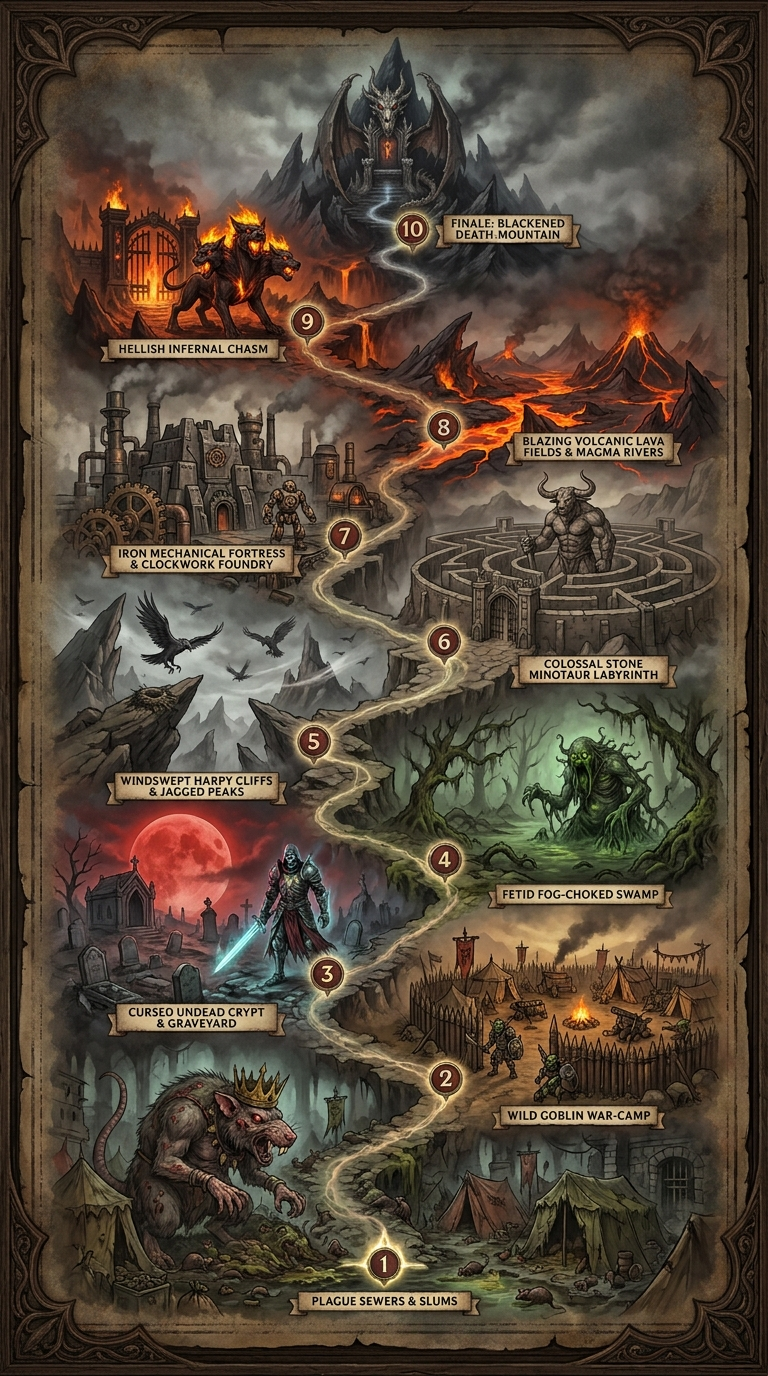
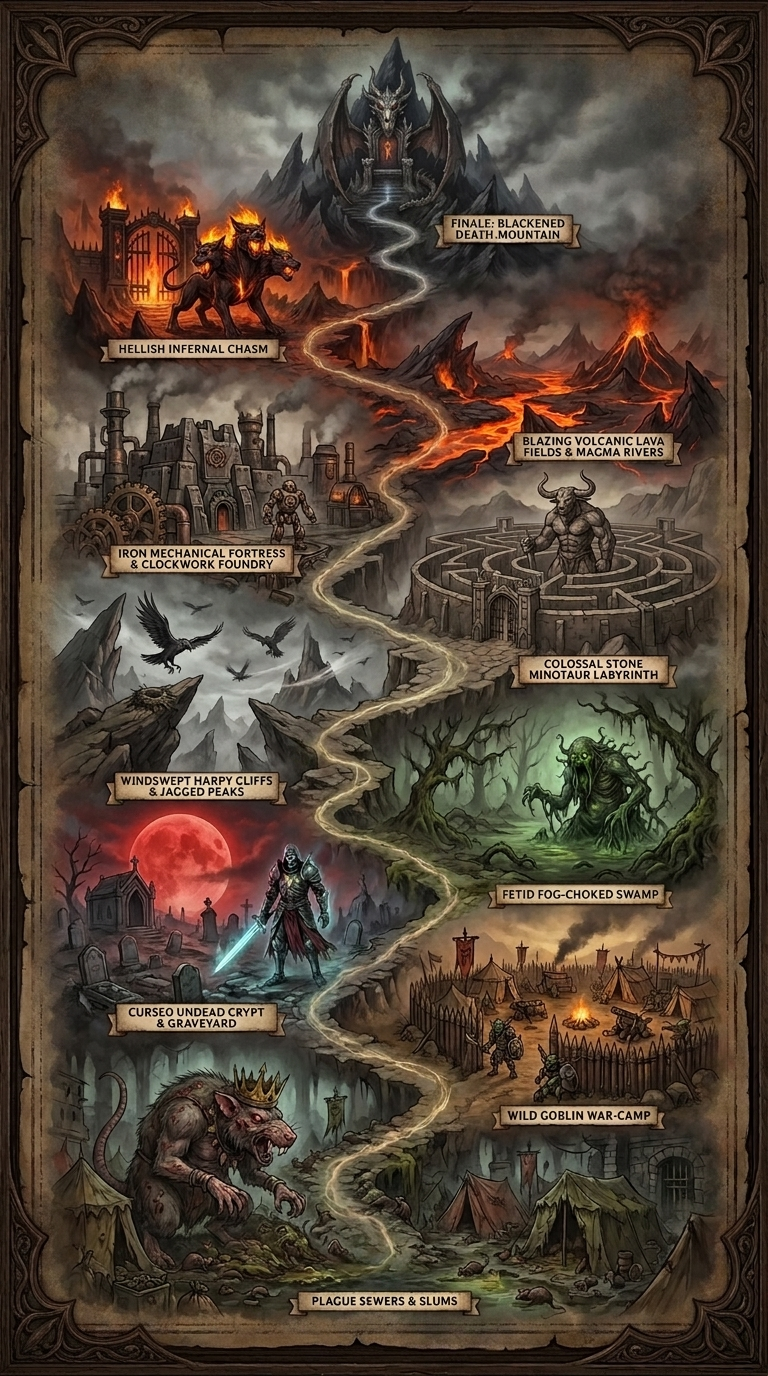
feat(web-game): battle-style workout UI, level timer, victory track, new map
- Экран боя в стиле референса: TIME-таймер слева, карточка монстра по центру, HP-бар X/Y, крестик выхода, крупный золотой круг-счётчик снизу.
- Таймер уровня (время прохождения), останавливается на победе.
- Трек победы games/victory.mp3 играет на экране 'Повержен!', стоп при выходе на карту.
- Заменена картинка карты (без нарисованных цифр — номера рисует оверлей).

diff --git a/web-game/index.html b/web-game/index.html
@@ -43,23 +43,48 @@
       #card-target { font-size: 20px; margin: 12px 0; }
       .hpbar { height: 16px; background: #333; border-radius: 8px; overflow: hidden; margin: 8px 0; }
       .hpbar > i { display: block; height: 100%; background: #d64545; width: 100%; }
-      /* WORKOUT */
+      /* WORKOUT (battle UI в стиле референса) */
       #screen-workout { position: relative; }
       /* Вертикальный (портретный) кадр: ландшафтная вебкамера обрезается по центру. */
       #wk-stage { position: relative; transform: scaleX(-1); width: 100%; aspect-ratio: 3 / 4; overflow: hidden; background: #000; }
       #wk-video, #wk-overlay { width: 100%; height: 100%; object-fit: cover; display: block; }
       #wk-video { background: #000; }
       #wk-overlay { position: absolute; inset: 0; }
-      /* Картинка текущего монстра поверх кадра (НЕ внутри зеркального wk-stage). */
-      #wk-monster-box { position: absolute; top: 8px; right: 8px; z-index: 4; width: 88px; text-align: center; pointer-events: none; }
-      #wk-monster { width: 88px; height: 88px; object-fit: cover; border-radius: 10px; border: 2px solid #F5A623; display: block; background: #000; }
-      #wk-monster-name { font-size: 11px; margin-top: 2px; text-shadow: 0 1px 3px #000; line-height: 1.1; }
       #wk-hud { position: absolute; inset: 0; pointer-events: none; }
-      #wk-counter { position: absolute; top: 8px; left: 0; right: 0; text-align: center;
-        font-size: 64px; font-weight: 900; color: #F5A623; text-shadow: 0 2px 8px #000; }
-      #wk-set { position: absolute; top: 84px; left: 0; right: 0; text-align: center; font-size: 18px; }
+      /* Таймер уровня — слева сверху */
+      #wk-time-box { position: absolute; top: 10px; left: 10px; background: rgba(11,17,31,.85);
+        border: 1px solid #3a4a67; border-radius: 8px; padding: 4px 10px; text-align: center; }
+      #wk-time-box .lbl { font-size: 9px; letter-spacing: 2px; color: #9aa4b2; }
+      #wk-time { font-size: 18px; font-weight: 800; color: #fff; font-variant-numeric: tabular-nums; }
+      /* Крестик выхода — справа сверху */
+      #wk-back { position: absolute; top: 10px; right: 10px; z-index: 6; pointer-events: auto;
+        width: 36px; height: 36px; border-radius: 50%; background: rgba(11,17,31,.85);
+        border: 1px solid #3a4a67; color: #fff; font-size: 18px; line-height: 1; padding: 0; }
+      /* Карточка монстра — по центру сверху */
+      #wk-monster-card { position: absolute; top: 8px; left: 50%; transform: translateX(-50%);
+        width: 120px; background: rgba(11,17,31,.85); border: 1px solid #F5A623;
+        border-radius: 10px; padding: 6px; text-align: center; }
+      #wk-monster { width: 100%; aspect-ratio: 1 / 1; object-fit: cover; border-radius: 6px; display: block; background: #000; }
+      #wk-monster-name { font-size: 12px; font-weight: 800; margin-top: 3px; }
+      /* HP-бар под карточкой */
+      #wk-hp-wrap { position: absolute; top: 176px; left: 50%; transform: translateX(-50%);
+        width: 190px; height: 20px; background: #3a0f0f; border: 1px solid #000;
+        border-radius: 4px; overflow: hidden; }
+      #wk-hp { height: 100%; background: #d64545; width: 100%; }
+      #wk-hp-text { position: absolute; top: 176px; left: 50%; transform: translateX(-50%);
+        width: 190px; text-align: center; font-size: 12px; font-weight: 800; line-height: 20px;
+        text-shadow: 0 1px 2px #000; }
+      #wk-set { position: absolute; top: 200px; left: 0; right: 0; text-align: center;
+        font-size: 13px; color: #F5A623; text-shadow: 0 1px 3px #000; }
+      /* Крупный золотой круг-счётчик — снизу по центру */
+      #wk-counter { position: absolute; bottom: 16px; left: 50%; transform: translateX(-50%);
+        width: 96px; height: 96px; border-radius: 50%; background: #F5A623; color: #101828;
+        font-size: 46px; font-weight: 900; display: flex; align-items: center; justify-content: center;
+        box-shadow: 0 4px 16px rgba(0,0,0,.6); border: 3px solid rgba(255,255,255,.35); }
+      #wk-status { position: absolute; bottom: 122px; left: 0; right: 0; text-align: center;
+        color: #F5A623; font-size: 14px; text-shadow: 0 1px 3px #000; }
       #wk-rest { position: absolute; inset: 0; display: none; align-items: center;
-        justify-content: center; flex-direction: column; background: rgba(0,0,0,.8); font-size: 24px; }
+        justify-content: center; flex-direction: column; background: rgba(0,0,0,.8); font-size: 24px; pointer-events: auto; }
       /* VICTORY */
       #screen-victory { text-align: center; padding-top: 30vh; }
       #screen-victory h1 { color: #F5A623; font-size: 40px; font-weight: 900; }
@@ -100,20 +125,20 @@
           <video id="wk-video" playsinline muted></video>
           <canvas id="wk-overlay"></canvas>
         </div>
-        <button class="btn" id="wk-back" style="position:absolute;top:8px;left:8px;z-index:5;background:#24314a;color:#fff;padding:8px 16px;font-size:14px;">Назад</button>
-        <div id="wk-monster-box">
-          <img id="wk-monster" alt="" />
-          <div id="wk-monster-name"></div>
-        </div>
+        <button id="wk-back" aria-label="Выход">✕</button>
         <div id="wk-hud">
-          <div id="wk-counter">0</div>
+          <div id="wk-time-box"><div class="lbl">TIME</div><div id="wk-time">0:00</div></div>
+          <div id="wk-monster-card">
+            <img id="wk-monster" alt="" />
+            <div id="wk-monster-name"></div>
+          </div>
+          <div id="wk-hp-wrap"><div id="wk-hp"></div></div>
+          <div id="wk-hp-text"></div>
           <div id="wk-set"></div>
-        </div>
-        <div class="hpbar" style="position:absolute;top:60px;left:8px;right:8px">
-          <i id="wk-hp"></i>
+          <div id="wk-status"></div>
+          <div id="wk-counter">0</div>
         </div>
         <div id="wk-rest"></div>
-        <div id="wk-status" style="text-align:center;color:#F5A623;padding:6px"></div>
       </section>
 
       <section id="screen-victory" class="screen">

diff --git a/web-game/app.js b/web-game/app.js
@@ -146,9 +146,6 @@ function newWorkout(_m) {
 function totalTarget(m) {
   return m.sets * m.repsPerSet;
 }
-function progressFraction(state, m) {
-  return Math.min(1, state.totalReps / totalTarget(m));
-}
 function onRep(state, m) {
   if (state.done) {
     return { state, event: "repCounted" };
@@ -520,8 +517,11 @@ function startWorkout(app2) {
   const backBtn = document.getElementById("wk-back");
   const monsterImg = document.getElementById("wk-monster");
   const monsterName = document.getElementById("wk-monster-name");
+  const hpTextEl = document.getElementById("wk-hp-text");
+  const timeEl = document.getElementById("wk-time");
   monsterImg.src = `./games/${monster.cardImage}`;
   monsterName.textContent = monster.name;
+  const maxHp = totalTarget(monster);
   const hitSound = new Audio("./games/hit.mp3");
   hitSound.volume = 0.6;
   const detector = new RepDetector(DEFAULT_CONFIG);
@@ -529,8 +529,18 @@ function startWorkout(app2) {
   let resting = false;
   let finished = false;
   let stream = null;
+  const startMs = performance.now();
+  const fmtTime = (ms) => {
+    const s = Math.floor(ms / 1e3);
+    return `${Math.floor(s / 60)}:${String(s % 60).padStart(2, "0")}`;
+  };
+  const timerId = window.setInterval(() => {
+    timeEl.textContent = fmtTime(performance.now() - startMs);
+  }, 250);
+  const stopTimer = () => window.clearInterval(timerId);
   backBtn.onclick = () => {
     finished = true;
+    stopTimer();
     if (stream) {
       stream.getTracks().forEach((t) => t.stop());
     }
@@ -540,7 +550,9 @@ function startWorkout(app2) {
   const updateHud = () => {
     counterEl.textContent = String(wk.repsInSet);
     setEl.textContent = monster.sets > 1 ? `\u0421\u0435\u0442 ${wk.setIndex + 1}/${monster.sets} \xB7 \u0446\u0435\u043B\u044C ${monster.repsPerSet}` : `\u0426\u0435\u043B\u044C ${monster.repsPerSet}`;
-    hpEl.style.width = `${100 - progressFraction(wk, monster) * 100}%`;
+    const hp = Math.max(0, maxHp - wk.totalReps);
+    hpEl.style.width = `${hp / maxHp * 100}%`;
+    hpTextEl.textContent = `${hp} / ${maxHp} HP`;
   };
   updateHud();
   function draw(pose) {
@@ -579,6 +591,7 @@ function startWorkout(app2) {
     updateHud();
     if (res.event === "monsterDefeated") {
       finished = true;
+      stopTimer();
       app2.onDefeated();
     } else if (res.event === "setComplete") {
       startRest();
@@ -663,6 +676,20 @@ function show(id) {
   document.querySelectorAll(".screen").forEach((s) => s.classList.remove("active"));
   document.getElementById(id).classList.add("active");
 }
+var victorySound = null;
+function playVictory() {
+  stopVictory();
+  victorySound = new Audio("./games/victory.mp3");
+  victorySound.volume = 0.8;
+  victorySound.play().catch(() => {
+  });
+}
+function stopVictory() {
+  if (victorySound) {
+    victorySound.pause();
+    victorySound = null;
+  }
+}
 var app = {
   progression: loadProgression(),
   show,
@@ -683,6 +710,7 @@ var app = {
     saveProgression(this.progression);
     document.getElementById("victory-name").textContent = m ? m.name : "";
     show("screen-victory");
+    playVictory();
   }
 };
 document.getElementById("start-btn").addEventListener("click", () => {
@@ -690,6 +718,7 @@ document.getElementById("start-btn").addEventListener("click", () => {
   show("screen-map");
 });
 document.getElementById("victory-btn").addEventListener("click", () => {
+  stopVictory();
   app.render();
   show("screen-map");
 });

diff --git a/web-game/src/workout-screen.ts b/web-game/src/workout-screen.ts
@@ -6,7 +6,7 @@ import {
   WorkoutState,
   newWorkout,
   onRep,
-  progressFraction,
+  totalTarget,
 } from '../../app/src/game/workout';
 import type {App} from './main';
 
@@ -48,10 +48,14 @@ export function startWorkout(app: App): void {
   const backBtn = document.getElementById('wk-back') as HTMLButtonElement;
   const monsterImg = document.getElementById('wk-monster') as HTMLImageElement;
   const monsterName = document.getElementById('wk-monster-name') as HTMLElement;
+  const hpTextEl = document.getElementById('wk-hp-text')!;
+  const timeEl = document.getElementById('wk-time')!;
 
   // Картинка текущего монстра на экране тренировки.
   monsterImg.src = `./games/${monster.cardImage}`;
   monsterName.textContent = monster.name;
+
+  const maxHp = totalTarget(monster);
 
   // Звук урона по мобу (каждое отжимание = урон = XP).
   const hitSound = new Audio('./games/hit.mp3');
@@ -63,8 +67,20 @@ export function startWorkout(app: App): void {
   let finished = false;
   let stream: MediaStream | null = null;
 
+  // Таймер уровня (сколько заняло прохождение) — слева сверху.
+  const startMs = performance.now();
+  const fmtTime = (ms: number): string => {
+    const s = Math.floor(ms / 1000);
+    return `${Math.floor(s / 60)}:${String(s % 60).padStart(2, '0')}`;
+  };
+  const timerId = window.setInterval(() => {
+    timeEl.textContent = fmtTime(performance.now() - startMs);
+  }, 250);
+  const stopTimer = () => window.clearInterval(timerId);
+
   backBtn.onclick = () => {
     finished = true;
+    stopTimer();
     if (stream) {
       stream.getTracks().forEach(t => t.stop());
     }
@@ -75,8 +91,12 @@ export function startWorkout(app: App): void {
   const updateHud = () => {
     counterEl.textContent = String(wk.repsInSet);
     setEl.textContent =
-      monster.sets > 1 ? `Сет ${wk.setIndex + 1}/${monster.sets} · цель ${monster.repsPerSet}` : `Цель ${monster.repsPerSet}`;
-    hpEl.style.width = `${100 - progressFraction(wk, monster) * 100}%`;
+      monster.sets > 1
+        ? `Сет ${wk.setIndex + 1}/${monster.sets} · цель ${monster.repsPerSet}`
+        : `Цель ${monster.repsPerSet}`;
+    const hp = Math.max(0, maxHp - wk.totalReps);
+    hpEl.style.width = `${(hp / maxHp) * 100}%`;
+    hpTextEl.textContent = `${hp} / ${maxHp} HP`;
   };
   updateHud();
 
@@ -117,6 +137,7 @@ export function startWorkout(app: App): void {
     updateHud();
     if (res.event === 'monsterDefeated') {
       finished = true;
+      stopTimer();
       app.onDefeated();
     } else if (res.event === 'setComplete') {
       startRest();

diff --git a/web-game/src/main.ts b/web-game/src/main.ts
@@ -32,6 +32,23 @@ function show(id: ScreenId): void {
   document.getElementById(id)!.classList.add('active');
 }
 
+// Трек победы (играет на экране «Повержен!», останавливается при выходе на карту).
+let victorySound: HTMLAudioElement | null = null;
+function playVictory(): void {
+  stopVictory();
+  victorySound = new Audio('./games/victory.mp3');
+  victorySound.volume = 0.8;
+  victorySound.play().catch(() => {
+    // автоплей может быть заблокирован — не критично
+  });
+}
+function stopVictory(): void {
+  if (victorySound) {
+    victorySound.pause();
+    victorySound = null;
+  }
+}
+
 const app: App = {
   progression: loadProgression(),
   show,
@@ -52,6 +69,7 @@ const app: App = {
     saveProgression(this.progression);
     (document.getElementById('victory-name') as HTMLElement).textContent = m ? m.name : '';
     show('screen-victory');
+    playVictory();
   },
 };
 
@@ -62,6 +80,7 @@ document.getElementById('start-btn')!.addEventListener('click', () => {
 });
 // VICTORY -> map
 document.getElementById('victory-btn')!.addEventListener('click', () => {
+  stopVictory();
   app.render();
   show('screen-map');
 });